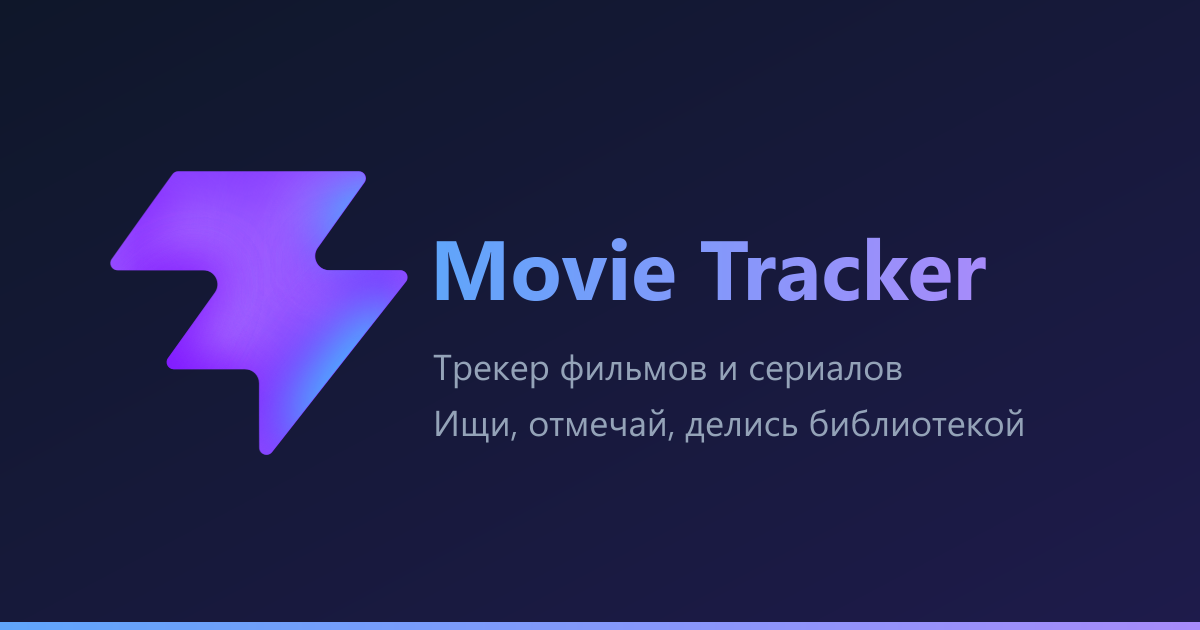
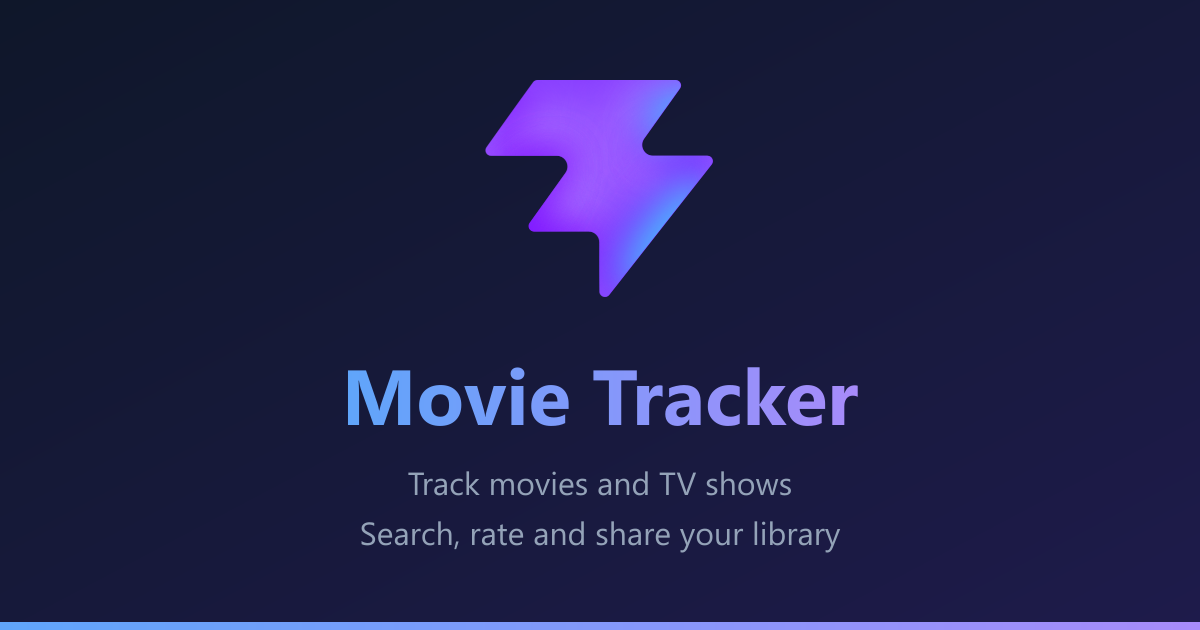
Fix: центрированная OG-картинка и английские метатеги по умолчанию

Changed region(s): [[0.0925, 0.1206, 0.8633, 0.7238], [0.3083, 0.8143, 0.7092, 0.8746], [0.3392, 0.754, 0.6783, 0.7841]]

diff --git a/index.html b/index.html
@@ -7,23 +7,24 @@
     <meta name="viewport" content="width=device-width, initial-scale=1.0" />
     <meta name="theme-color" content="#1f2937" />
     <title>Movie Tracker</title>
-    <meta name="description" content="Трекер фильмов и сериалов: ищи, отмечай просмотренное, ставь оценки и делись библиотекой с друзьями." />
+    <meta name="description" content="Track movies and TV shows: search, mark what you watched, rate titles and share your library with friends." />
 
     <!-- Open Graph -->
     <meta property="og:type" content="website" />
     <meta property="og:site_name" content="Movie Tracker" />
     <meta property="og:url" content="https://filmtrack.pp.ua/" />
-    <meta property="og:title" content="Movie Tracker — трекер фильмов и сериалов" />
-    <meta property="og:description" content="Ищи фильмы и сериалы, отмечай просмотренное, ставь оценки и делись библиотекой с друзьями." />
+    <meta property="og:title" content="Movie Tracker — track movies and TV shows" />
+    <meta property="og:description" content="Search movies and TV shows, mark what you watched, rate titles and share your library with friends." />
     <meta property="og:image" content="https://filmtrack.pp.ua/og-image.png" />
     <meta property="og:image:width" content="1200" />
     <meta property="og:image:height" content="630" />
-    <meta property="og:locale" content="ru_RU" />
+    <meta property="og:locale" content="en_US" />
+    <meta property="og:locale:alternate" content="ru_RU" />
 
     <!-- Twitter -->
     <meta name="twitter:card" content="summary_large_image" />
-    <meta name="twitter:title" content="Movie Tracker — трекер фильмов и сериалов" />
-    <meta name="twitter:description" content="Ищи фильмы и сериалы, отмечай просмотренное, ставь оценки и делись библиотекой с друзьями." />
+    <meta name="twitter:title" content="Movie Tracker — track movies and TV shows" />
+    <meta name="twitter:description" content="Search movies and TV shows, mark what you watched, rate titles and share your library with friends." />
     <meta name="twitter:image" content="https://filmtrack.pp.ua/og-image.png" />
   </head>
   <body>

diff --git a/vite.config.ts b/vite.config.ts
@@ -16,8 +16,8 @@ export default defineConfig(({ mode }) => {
         manifest: {
           name: 'Movie Tracker',
           short_name: 'Movie Tracker',
-          description: 'Трекер фильмов и сериалов: ищи, отмечай просмотренное, делись библиотекой',
-          lang: 'ru',
+          description: 'Track movies and TV shows: search, mark what you watched, share your library',
+          lang: 'en',
           start_url: '/',
           display: 'standalone',
           theme_color: '#1f2937',